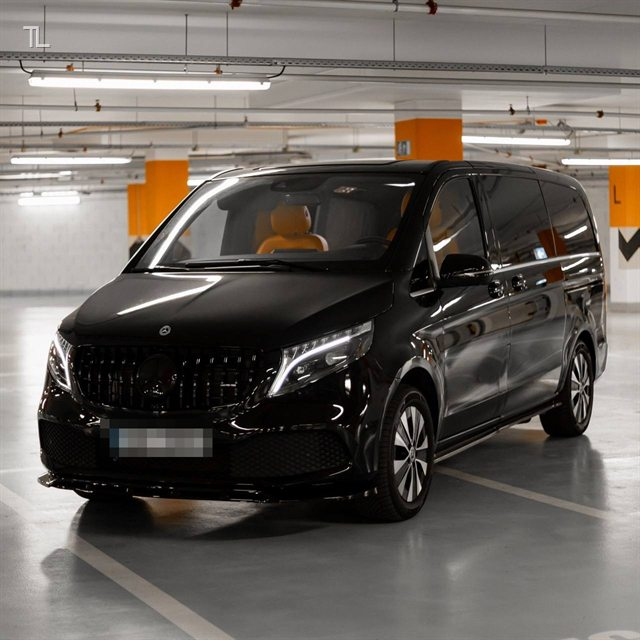
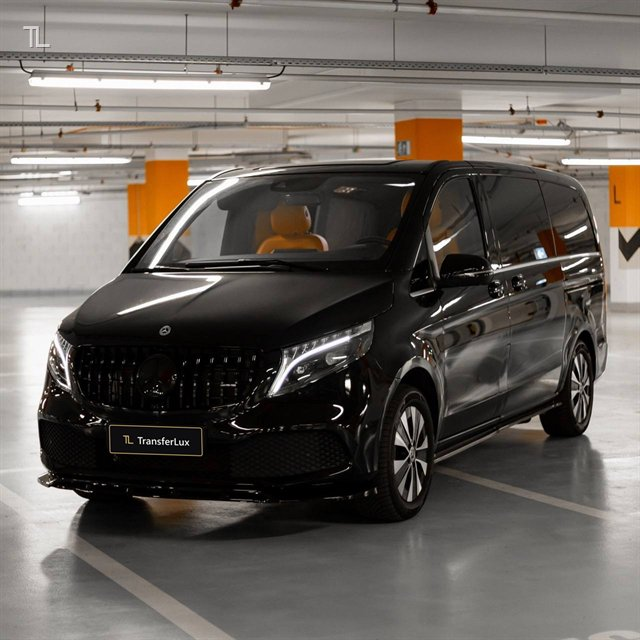
TransferLux plates instead of licence plates, black Sprinter exterior in fleet

Changed region(s): [[0.1562, 0.6562, 0.3438, 0.7188]]

diff --git a/src/ui/Panels.tsx b/src/ui/Panels.tsx
@@ -2,9 +2,9 @@ import { CONTACTS, type T } from "../i18n";
 import { Chevron, Mail, Phone, Telegram, WhatsApp } from "./Icons";
 
 /* Fleet: a short selection on purpose. More photos and the choice of a vehicle go through the manager.
-   BLACK gets the new exterior photo of the black Sprinter first once it is added to /img. */
+   Licence plates on photos are replaced with a TransferLux plate. */
 const MAIN = "sprinter-white-two";
-const BLACK = ["sprinter-black-door"];
+const BLACK = ["sprinter-black-front", "sprinter-black-door"];
 const WHITE = ["seat-recliner-closeup", "interior-white-diamond"];
 const VCLASS_MAIN = "vclass-01";
 const VCLASS = ["vclass-02", "vclass-03", "vclass-04", "vclass-05", "vclass-06", "vclass-07"];
